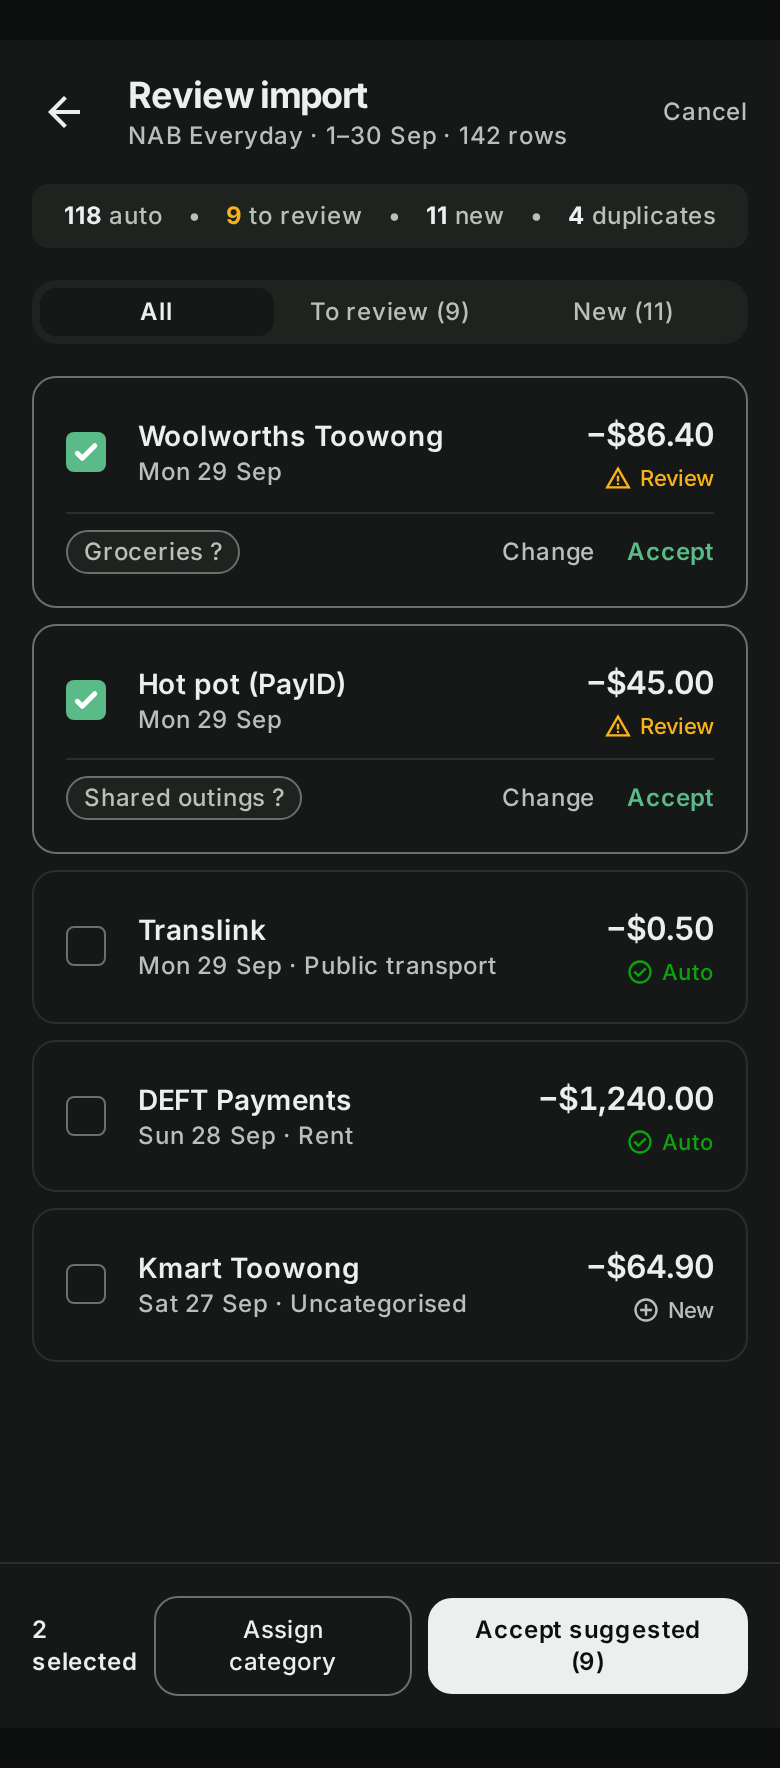
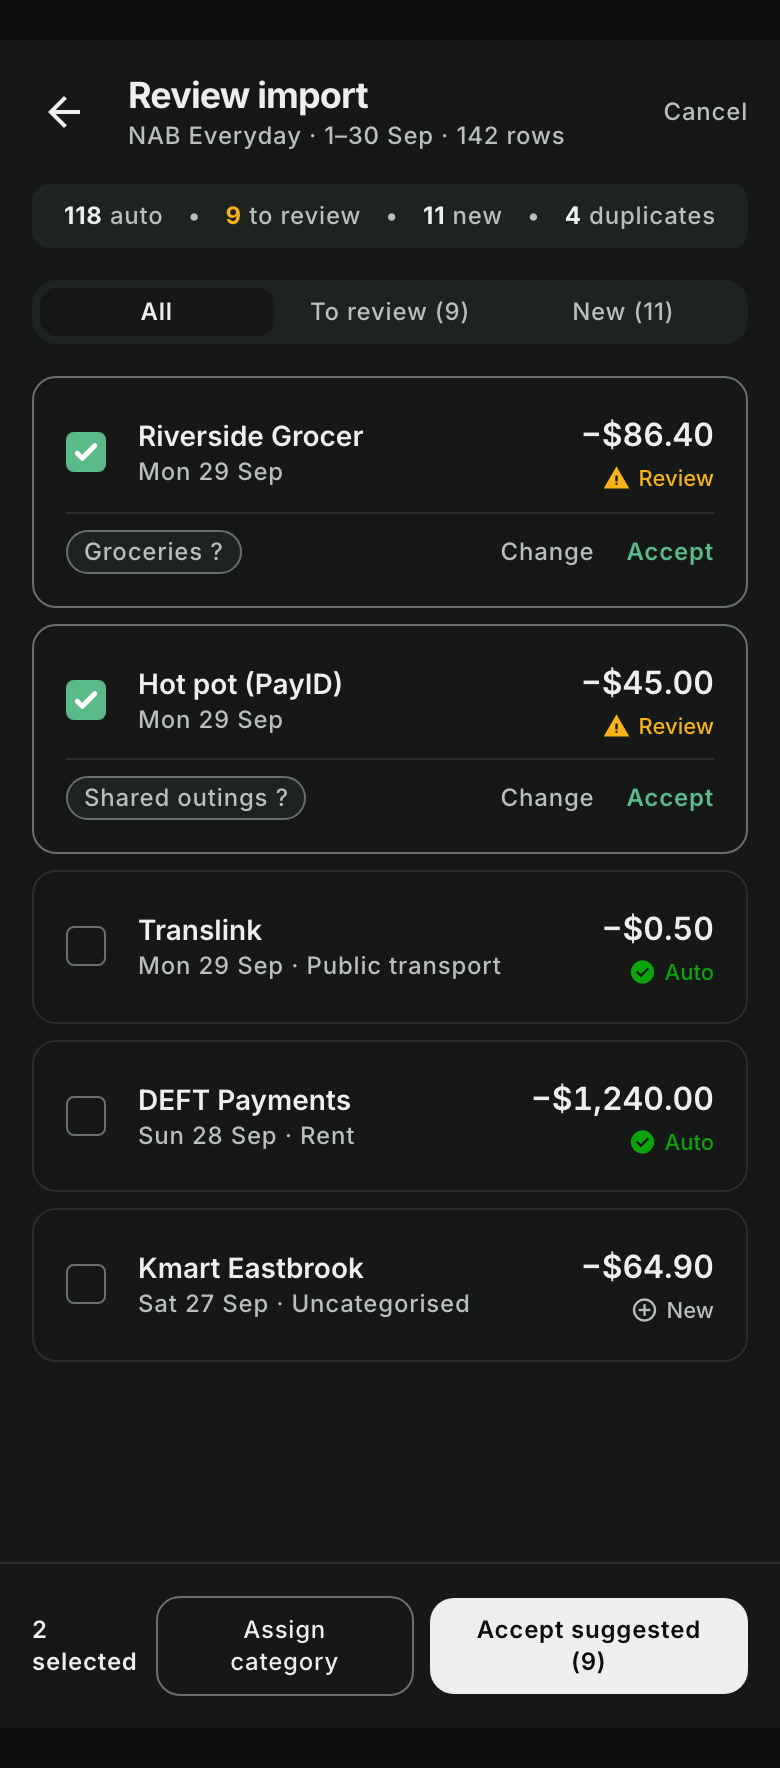
docs(design): use fictional merchants in demo data and refresh screenshots
The ui-kit demo data, three web specs, the Stitch mocks, the Claude
Design sources and the stitch prompts named a real suburb and real local
providers. They now use fictional ones (Riverside Grocer, Hillcrest
Market, Corner Fuel, Kmart Eastbrook, Mobile Co, City Water, Power Co).

Screenshots that showed the old names are regenerated at 390 px, light
and dark: the kit and charts galleries (Playwright against /__kit and
/__kit/charts), the import review QA shots (a local stack with a
synthetic CSV) and the month, transactions and import-review mocks
(re-rendered from their HTML). The bank-side NAB system rules are product
code and stay as they are.

Claude-Session: https://claude.ai/code/session_01RnizF3m5GoPiC5RqA4km1g

diff --git a/docs/design/claude-design/system/project/components/ReviewRow/preview.html b/docs/design/claude-design/system/project/components/ReviewRow/preview.html
@@ -14,7 +14,7 @@
 </head>
 <body>
 <div class="mm pv">
-<div style="margin:0 -16px;display:flex;flex-direction:column;gap:4px;padding:0 8px"><div class="mm-review"><span class="mm-checkwrap"><span class="mm-check mm-check--on"><svg class="ic ic-16" viewBox="0 0 24 24" aria-hidden="true"><path d="M20 6 9 17l-5-5"/></svg></span></span><div class="mm-review__body"><div class="mm-review__top"><span class="body">Woolworths Riverside</span><span class="mm-amt">−$142.65</span></div><div class="mm-review__line"><span class="mm-state"><svg class="ic ic-16 st-good" viewBox="0 0 24 24" aria-hidden="true"><circle cx="12" cy="12" r="10"/><path d="m9 12 2 2 4-4"/></svg>Auto</span><span class="caption ink-3">Súper · 12 oct</span></div></div></div><div class="mm-review mm-review--doubtful"><span class="mm-checkwrap"><span class="mm-check"></span></span><div class="mm-review__body"><div class="mm-review__top"><span class="body">SQ *BRISBANE MARKETS</span><span class="mm-amt">−$38.00</span></div><div class="mm-review__line"><span class="mm-state"><svg class="ic ic-16 st-warning" viewBox="0 0 24 24" aria-hidden="true"><path d="m21.73 18-8-14a2 2 0 0 0-3.48 0l-8 14A2 2 0 0 0 4 21h16a2 2 0 0 0 1.73-3"/><path d="M12 9v4"/><path d="M12 17h.01"/></svg>Revisar</span><button class="mm-chip" type="button" style="height:32px">Súper ?</button><button class="mm-btn mm-btn--link" type="button" style="height:32px;padding:0 8px">Aceptar</button><button class="mm-btn mm-btn--ghost" type="button" style="height:32px;padding:0 8px">Cambiar</button></div></div></div><div class="mm-review"><span class="mm-checkwrap"><span class="mm-check"></span></span><div class="mm-review__body"><div class="mm-review__top"><span class="body">ONLINE PAYMENT 4417</span><span class="mm-amt">−$60.00</span></div><div class="mm-review__line"><span class="mm-state"><svg class="ic ic-16 ink-2" viewBox="0 0 24 24" aria-hidden="true"><circle cx="12" cy="12" r="10"/><path d="M8 12h8"/><path d="M12 8v8"/></svg>Nueva</span><button class="mm-chip" type="button" style="height:32px">Sin categoría</button></div></div></div></div>
+<div style="margin:0 -16px;display:flex;flex-direction:column;gap:4px;padding:0 8px"><div class="mm-review"><span class="mm-checkwrap"><span class="mm-check mm-check--on"><svg class="ic ic-16" viewBox="0 0 24 24" aria-hidden="true"><path d="M20 6 9 17l-5-5"/></svg></span></span><div class="mm-review__body"><div class="mm-review__top"><span class="body">Riverside Grocer</span><span class="mm-amt">−$142.65</span></div><div class="mm-review__line"><span class="mm-state"><svg class="ic ic-16 st-good" viewBox="0 0 24 24" aria-hidden="true"><circle cx="12" cy="12" r="10"/><path d="m9 12 2 2 4-4"/></svg>Auto</span><span class="caption ink-3">Súper · 12 oct</span></div></div></div><div class="mm-review mm-review--doubtful"><span class="mm-checkwrap"><span class="mm-check"></span></span><div class="mm-review__body"><div class="mm-review__top"><span class="body">SQ *BRISBANE MARKETS</span><span class="mm-amt">−$38.00</span></div><div class="mm-review__line"><span class="mm-state"><svg class="ic ic-16 st-warning" viewBox="0 0 24 24" aria-hidden="true"><path d="m21.73 18-8-14a2 2 0 0 0-3.48 0l-8 14A2 2 0 0 0 4 21h16a2 2 0 0 0 1.73-3"/><path d="M12 9v4"/><path d="M12 17h.01"/></svg>Revisar</span><button class="mm-chip" type="button" style="height:32px">Súper ?</button><button class="mm-btn mm-btn--link" type="button" style="height:32px;padding:0 8px">Aceptar</button><button class="mm-btn mm-btn--ghost" type="button" style="height:32px;padding:0 8px">Cambiar</button></div></div></div><div class="mm-review"><span class="mm-checkwrap"><span class="mm-check"></span></span><div class="mm-review__body"><div class="mm-review__top"><span class="body">ONLINE PAYMENT 4417</span><span class="mm-amt">−$60.00</span></div><div class="mm-review__line"><span class="mm-state"><svg class="ic ic-16 ink-2" viewBox="0 0 24 24" aria-hidden="true"><circle cx="12" cy="12" r="10"/><path d="M8 12h8"/><path d="M12 8v8"/></svg>Nueva</span><button class="mm-chip" type="button" style="height:32px">Sin categoría</button></div></div></div></div>
 </div>
 </body>
 </html>

diff --git a/docs/design/claude-design/month/project/Main.dc.html b/docs/design/claude-design/month/project/Main.dc.html
@@ -97,7 +97,7 @@ a{color:var(--accent)}a:hover{color:var(--ink-1)}
 <ul class="mm-list" style="margin: 0 -16px">
 <li class="mm-row"><span class="mm-row__icon"><svg class="ic" viewBox="0 0 24 24" aria-hidden="true"><path d="M15 21v-8a1 1 0 0 0-1-1h-4a1 1 0 0 0-1 1v8"/><path d="M3 10a2 2 0 0 1 .709-1.528l7-5.999a2 2 0 0 1 2.582 0l7 5.999A2 2 0 0 1 21 10v9a2 2 0 0 1-2 2H5a2 2 0 0 1-2-2z"/></svg></span><span class="mm-row__main"><span class="mm-row__title">DEFT Payments</span><span class="mm-row__meta"><span class="mm-dot mm-dot--a"></span>Renta · lun 13 oct</span></span><span class="mm-amt">−$480.00</span></li>
 <li class="mm-row"><span class="mm-row__icon"><svg class="ic" viewBox="0 0 24 24" aria-hidden="true"><path d="M15 21v-8a1 1 0 0 0-1-1h-4a1 1 0 0 0-1 1v8"/><path d="M3 10a2 2 0 0 1 .709-1.528l7-5.999a2 2 0 0 1 2.582 0l7 5.999A2 2 0 0 1 21 10v9a2 2 0 0 1-2 2H5a2 2 0 0 1-2-2z"/></svg></span><span class="mm-row__main"><span class="mm-row__title">DEFT Payments</span><span class="mm-row__meta"><span class="mm-dot mm-dot--b"></span>Renta · lun 6 oct</span></span><span class="mm-amt">−$480.00</span></li>
-<li class="mm-row"><span class="mm-row__icon"><svg class="ic" viewBox="0 0 24 24" aria-hidden="true"><circle cx="8" cy="21" r="1"/><circle cx="19" cy="21" r="1"/><path d="M2.05 2.05h2l2.66 12.42a2 2 0 0 0 2 1.58h9.78a2 2 0 0 0 1.95-1.57l1.65-7.43H5.12"/></svg></span><span class="mm-row__main"><span class="mm-row__title">Woolworths Riverside</span><span class="mm-row__meta"><span class="mm-dot mm-dot--b"></span>Súper · dom 12 oct</span></span><span class="mm-amt">−$142.65</span></li>
+<li class="mm-row"><span class="mm-row__icon"><svg class="ic" viewBox="0 0 24 24" aria-hidden="true"><circle cx="8" cy="21" r="1"/><circle cx="19" cy="21" r="1"/><path d="M2.05 2.05h2l2.66 12.42a2 2 0 0 0 2 1.58h9.78a2 2 0 0 0 1.95-1.57l1.65-7.43H5.12"/></svg></span><span class="mm-row__main"><span class="mm-row__title">Riverside Grocer</span><span class="mm-row__meta"><span class="mm-dot mm-dot--b"></span>Súper · dom 12 oct</span></span><span class="mm-amt">−$142.65</span></li>
 <li class="mm-row"><span class="mm-row__icon"><svg class="ic" viewBox="0 0 24 24" aria-hidden="true"><path d="M4 14a1 1 0 0 1-.78-1.63l9.9-10.2a.5.5 0 0 1 .86.46l-1.92 6.02A1 1 0 0 0 13 10h7a1 1 0 0 1 .78 1.63l-9.9 10.2a.5.5 0 0 1-.86-.46l1.92-6.02A1 1 0 0 0 11 14z"/></svg></span><span class="mm-row__main"><span class="mm-row__title">Power Co</span><span class="mm-row__meta"><span class="mm-dot mm-dot--a"></span>Servicios · mié 8 oct</span></span><span class="mm-amt">−$118.40</span></li>
 <li class="mm-row"><span class="mm-row__icon"><svg class="ic" viewBox="0 0 24 24" aria-hidden="true"><path d="M4 14a1 1 0 0 1-.78-1.63l9.9-10.2a.5.5 0 0 1 .86.46l-1.92 6.02A1 1 0 0 0 13 10h7a1 1 0 0 1 .78 1.63l-9.9 10.2a.5.5 0 0 1-.86-.46l1.92-6.02A1 1 0 0 0 11 14z"/></svg></span><span class="mm-row__main"><span class="mm-row__title">City Water</span><span class="mm-row__meta"><span class="mm-dot mm-dot--joint"></span>Servicios · jue 2 oct</span></span><span class="mm-amt">−$79.00</span></li>
 </ul>

diff --git a/docs/design/claude-design/month/project/Month-dark.dc.html b/docs/design/claude-design/month/project/Month-dark.dc.html
@@ -97,7 +97,7 @@ a{color:var(--accent)}a:hover{color:var(--ink-1)}
 <ul class="mm-list" style="margin: 0 -16px">
 <li class="mm-row"><span class="mm-row__icon"><svg class="ic" viewBox="0 0 24 24" aria-hidden="true"><path d="M15 21v-8a1 1 0 0 0-1-1h-4a1 1 0 0 0-1 1v8"/><path d="M3 10a2 2 0 0 1 .709-1.528l7-5.999a2 2 0 0 1 2.582 0l7 5.999A2 2 0 0 1 21 10v9a2 2 0 0 1-2 2H5a2 2 0 0 1-2-2z"/></svg></span><span class="mm-row__main"><span class="mm-row__title">DEFT Payments</span><span class="mm-row__meta"><span class="mm-dot mm-dot--a"></span>Renta · lun 13 oct</span></span><span class="mm-amt">−$480.00</span></li>
 <li class="mm-row"><span class="mm-row__icon"><svg class="ic" viewBox="0 0 24 24" aria-hidden="true"><path d="M15 21v-8a1 1 0 0 0-1-1h-4a1 1 0 0 0-1 1v8"/><path d="M3 10a2 2 0 0 1 .709-1.528l7-5.999a2 2 0 0 1 2.582 0l7 5.999A2 2 0 0 1 21 10v9a2 2 0 0 1-2 2H5a2 2 0 0 1-2-2z"/></svg></span><span class="mm-row__main"><span class="mm-row__title">DEFT Payments</span><span class="mm-row__meta"><span class="mm-dot mm-dot--b"></span>Renta · lun 6 oct</span></span><span class="mm-amt">−$480.00</span></li>
-<li class="mm-row"><span class="mm-row__icon"><svg class="ic" viewBox="0 0 24 24" aria-hidden="true"><circle cx="8" cy="21" r="1"/><circle cx="19" cy="21" r="1"/><path d="M2.05 2.05h2l2.66 12.42a2 2 0 0 0 2 1.58h9.78a2 2 0 0 0 1.95-1.57l1.65-7.43H5.12"/></svg></span><span class="mm-row__main"><span class="mm-row__title">Woolworths Riverside</span><span class="mm-row__meta"><span class="mm-dot mm-dot--b"></span>Súper · dom 12 oct</span></span><span class="mm-amt">−$142.65</span></li>
+<li class="mm-row"><span class="mm-row__icon"><svg class="ic" viewBox="0 0 24 24" aria-hidden="true"><circle cx="8" cy="21" r="1"/><circle cx="19" cy="21" r="1"/><path d="M2.05 2.05h2l2.66 12.42a2 2 0 0 0 2 1.58h9.78a2 2 0 0 0 1.95-1.57l1.65-7.43H5.12"/></svg></span><span class="mm-row__main"><span class="mm-row__title">Riverside Grocer</span><span class="mm-row__meta"><span class="mm-dot mm-dot--b"></span>Súper · dom 12 oct</span></span><span class="mm-amt">−$142.65</span></li>
 <li class="mm-row"><span class="mm-row__icon"><svg class="ic" viewBox="0 0 24 24" aria-hidden="true"><path d="M4 14a1 1 0 0 1-.78-1.63l9.9-10.2a.5.5 0 0 1 .86.46l-1.92 6.02A1 1 0 0 0 13 10h7a1 1 0 0 1 .78 1.63l-9.9 10.2a.5.5 0 0 1-.86-.46l1.92-6.02A1 1 0 0 0 11 14z"/></svg></span><span class="mm-row__main"><span class="mm-row__title">Power Co</span><span class="mm-row__meta"><span class="mm-dot mm-dot--a"></span>Servicios · mié 8 oct</span></span><span class="mm-amt">−$118.40</span></li>
 <li class="mm-row"><span class="mm-row__icon"><svg class="ic" viewBox="0 0 24 24" aria-hidden="true"><path d="M4 14a1 1 0 0 1-.78-1.63l9.9-10.2a.5.5 0 0 1 .86.46l-1.92 6.02A1 1 0 0 0 13 10h7a1 1 0 0 1 .78 1.63l-9.9 10.2a.5.5 0 0 1-.86-.46l1.92-6.02A1 1 0 0 0 11 14z"/></svg></span><span class="mm-row__main"><span class="mm-row__title">City Water</span><span class="mm-row__meta"><span class="mm-dot mm-dot--joint"></span>Servicios · jue 2 oct</span></span><span class="mm-amt">−$79.00</span></li>
 </ul>

diff --git a/docs/design/claude-design/system/project/components/AmountDisplay/preview.html b/docs/design/claude-design/system/project/components/AmountDisplay/preview.html
@@ -15,7 +15,7 @@
 <body>
 <div class="mm pv">
 <div><p class="eyebrow" style="margin:0 0 4px">Gastado en octubre</p><p class="mm-hero">$2,263<span class="mm-hero__soft">.40</span></p></div>
-<div style="display:grid;grid-template-columns:1fr auto;row-gap:8px;max-width:320px"><span class="body ink-2">Woolworths Riverside</span><span class="mm-amt">−$142.65</span><span class="body ink-2">Pago de Hnry</span><span class="mm-amt mm-amt--income">+$3,200.00</span><span class="body ink-2">A Ahorro NAB</span><span class="mm-amt mm-amt--transfer"><svg class="ic ic-16" viewBox="0 0 24 24" aria-hidden="true"><path d="M8 3 4 7l4 4"/><path d="M4 7h16"/><path d="m16 21 4-4-4-4"/><path d="M20 17H4"/></svg>$500.00</span></div>
+<div style="display:grid;grid-template-columns:1fr auto;row-gap:8px;max-width:320px"><span class="body ink-2">Riverside Grocer</span><span class="mm-amt">−$142.65</span><span class="body ink-2">Pago de Hnry</span><span class="mm-amt mm-amt--income">+$3,200.00</span><span class="body ink-2">A Ahorro NAB</span><span class="mm-amt mm-amt--transfer"><svg class="ic ic-16" viewBox="0 0 24 24" aria-hidden="true"><path d="M8 3 4 7l4 4"/><path d="M4 7h16"/><path d="m16 21 4-4-4-4"/><path d="M20 17H4"/></svg>$500.00</span></div>
 </div>
 </body>
 </html>

diff --git a/docs/design/mocks/import-review-dark.html b/docs/design/mocks/import-review-dark.html
@@ -128,7 +128,7 @@
 <div class="flex items-center gap-space-md">
 <input checked="" class="w-5 h-5 rounded border-outline bg-transparent text-accent focus:ring-0 cursor-pointer accent-[#5abb88]" type="checkbox"/>
 <div>
-<h3 class="font-heading text-body-sm font-semibold text-on-surface">Woolworths Riverside</h3>
+<h3 class="font-heading text-body-sm font-semibold text-on-surface">Riverside Grocer</h3>
 <p class="font-label text-label text-on-surface-variant">Mon 29 Sep</p>
 </div>
 </div>
@@ -212,12 +212,12 @@
 </div>
 </div>
 </div>
-<!-- Row 5: New State (Kmart Riverside) -->
+<!-- Row 5: New State (Kmart Eastbrook) -->
 <div class="bg-surface border border-line rounded-xl p-space-md flex items-center justify-between">
 <div class="flex items-center gap-space-md">
 <input class="w-5 h-5 rounded border-outline bg-transparent text-accent focus:ring-0 cursor-pointer accent-[#5abb88]" type="checkbox"/>
 <div>
-<h3 class="font-heading text-body-sm font-semibold text-on-surface">Kmart Riverside</h3>
+<h3 class="font-heading text-body-sm font-semibold text-on-surface">Kmart Eastbrook</h3>
 <p class="font-label text-label text-on-surface-variant">Sat 27 Sep · Uncategorised</p>
 </div>
 </div>

diff --git a/apps/web/src/app/shared/ui/list-row/list-row.component.spec.ts b/apps/web/src/app/shared/ui/list-row/list-row.component.spec.ts
@@ -11,7 +11,7 @@ import { ListRowHarness } from './list-row.harness'
     <div role="list">
       <app-list-row
         icon="shopping-cart"
-        title="Woolworths Riverside"
+        title="Riverside Grocer"
         [meta]="['Groceries', 'NAB Everyday']"
         person="b"
         [amountCents]="14265"
@@ -45,7 +45,7 @@ describe('ListRowComponent', () => {
 
   it('test_shows_merchant_meta_person_and_signed_amount', async () => {
     const { loader, fixture } = await setup()
-    const row = await loader.getHarness(ListRowHarness.with({ title: 'Woolworths Riverside' }))
+    const row = await loader.getHarness(ListRowHarness.with({ title: 'Riverside Grocer' }))
 
     expect(await row.getMeta()).toBe('Groceries · NAB Everyday')
     expect(await row.getAmount()).toBe('−$142.65')
@@ -54,7 +54,7 @@ describe('ListRowComponent', () => {
 
   it('test_interactive_row_is_a_button_that_emits_pressed', async () => {
     const { loader, host } = await setup()
-    const row = await loader.getHarness(ListRowHarness.with({ title: 'Woolworths Riverside' }))
+    const row = await loader.getHarness(ListRowHarness.with({ title: 'Riverside Grocer' }))
 
     await row.click()
 

diff --git a/docs/design/mocks/import-review-light.html b/docs/design/mocks/import-review-light.html
@@ -159,7 +159,7 @@
 <div class="flex items-center gap-space-md">
 <input checked="" class="w-5 h-5 rounded border-outline text-primary focus:ring-0 cursor-pointer" type="checkbox"/>
 <div>
-<h3 class="font-heading text-body-sm font-semibold text-on-surface">Woolworths Riverside</h3>
+<h3 class="font-heading text-body-sm font-semibold text-on-surface">Riverside Grocer</h3>
 <p class="font-label text-label text-on-surface-variant">Mon 29 Sep</p>
 </div>
 </div>
@@ -243,12 +243,12 @@
 </div>
 </div>
 </div>
-<!-- Row 5: New State (Kmart Riverside) -->
+<!-- Row 5: New State (Kmart Eastbrook) -->
 <div class="bg-surface-container-lowest border border-line rounded-xl p-space-md flex items-center justify-between shadow-sm">
 <div class="flex items-center gap-space-md">
 <input class="w-5 h-5 rounded border-outline text-primary focus:ring-0 cursor-pointer" type="checkbox"/>
 <div>
-<h3 class="font-heading text-body-sm font-semibold text-on-surface">Kmart Riverside</h3>
+<h3 class="font-heading text-body-sm font-semibold text-on-surface">Kmart Eastbrook</h3>
 <p class="font-label text-label text-on-surface-variant">Sat 27 Sep · Uncategorised</p>
 </div>
 </div>

diff --git a/docs/design/mocks/transactions-light.html b/docs/design/mocks/transactions-light.html
@@ -167,14 +167,14 @@
 <span class="font-label text-label text-on-surface-variant uppercase tracking-wider">Today · Wed 15 Oct</span>
 <span class="font-body-sm text-on-surface-variant tabular-nums">−$48.70</span>
 </div>
-<!-- Row 1: Woolworths Riverside -->
+<!-- Row 1: Riverside Grocer -->
 <div class="h-[56px] flex items-center justify-between border-b border-line hover:bg-surface-container-low transition-colors px-space-xs">
 <div class="flex items-center gap-space-md">
 <div class="w-[36px] h-[36px] rounded-lg bg-surface-container flex items-center justify-center shrink-0">
 <span class="material-symbols-outlined text-on-surface-variant text-xl">shopping_bag</span>
 </div>
 <div>
-<div class="font-body text-on-surface font-medium leading-tight">Woolworths Riverside</div>
+<div class="font-body text-on-surface font-medium leading-tight">Riverside Grocer</div>
 <div class="flex items-center gap-space-xs mt-0.5">
 <span class="font-body-sm text-on-surface-variant">Groceries · NAB Everyday</span>
 <span class="inline-block w-2 h-2 rounded-full bg-person-a ml-1" title="You"></span>

diff --git a/docs/design/mocks/transactions-dark.html b/docs/design/mocks/transactions-dark.html
@@ -96,14 +96,14 @@
 <span class="text-xs font-medium text-text-dim uppercase tracking-wider">Today · Wed 15 Oct</span>
 <span class="text-sm text-text-dim tabular-nums">−$48.70</span>
 </div>
-<!-- Row 1: Woolworths Riverside -->
+<!-- Row 1: Riverside Grocer -->
 <div class="h-14 flex items-center justify-between border-b border-hairline hover:bg-raised transition-colors px-1">
 <div class="flex items-center gap-3">
 <div class="w-9 h-9 rounded-lg bg-sunken flex items-center justify-center shrink-0">
 <span class="material-symbols-outlined text-text-muted text-xl">shopping_bag</span>
 </div>
 <div>
-<div class="text-base text-text-main font-medium leading-tight">Woolworths Riverside</div>
+<div class="text-base text-text-main font-medium leading-tight">Riverside Grocer</div>
 <div class="flex items-center gap-1 mt-0.5">
 <span class="text-sm text-text-dim">Groceries · NAB Everyday</span>
 <span class="inline-block w-2 h-2 rounded-full bg-person-a ml-1" title="You"></span>

diff --git a/apps/web/src/app/domain/transaction-list.spec.ts b/apps/web/src/app/domain/transaction-list.spec.ts
@@ -92,11 +92,11 @@ describe('relativeDay', () => {
 
 describe('recentPayees', () => {
   it('test_distinct_payees_most_recent_first_matching_the_typed_prefix', () => {
-    const payees = ['Woolworths Riverside', 'Translink', 'woolworths riverside', null, 'Coles']
+    const payees = ['Riverside Grocer', 'Translink', 'riverside grocer', null, 'Coles']
 
-    expect(recentPayees(payees, '')).toEqual(['Woolworths Riverside', 'Translink', 'Coles'])
-    expect(recentPayees(payees, 'wool')).toEqual(['Woolworths Riverside'])
+    expect(recentPayees(payees, '')).toEqual(['Riverside Grocer', 'Translink', 'Coles'])
+    expect(recentPayees(payees, 'river')).toEqual(['Riverside Grocer'])
     expect(recentPayees(payees, 'Translink')).toEqual([])
-    expect(recentPayees(payees, '', 2)).toEqual(['Woolworths Riverside', 'Translink'])
+    expect(recentPayees(payees, '', 2)).toEqual(['Riverside Grocer', 'Translink'])
   })
 })

diff --git a/apps/web/src/app/kit/charts/kit-charts.data.ts b/apps/web/src/app/kit/charts/kit-charts.data.ts
@@ -42,11 +42,11 @@ export const SPENDING_BY_CATEGORY: readonly SampleCategory[] = [
 
 /** Merchants are proper names, so they are data rather than catalogue copy. */
 export const TOP_MERCHANTS: readonly { label: string; valueCents: number }[] = [
-  { label: 'Woolworths Riverside', valueCents: 41_230 },
-  { label: 'Coles Hillcrest', valueCents: 20_010 },
+  { label: 'Riverside Grocer', valueCents: 41_230 },
+  { label: 'Hillcrest Market', valueCents: 20_010 },
   { label: 'Translink', valueCents: 14_820 },
   { label: 'Corner Fuel', valueCents: 6_640 },
-  { label: 'Kmart Riverside', valueCents: 6_490 },
+  { label: 'Kmart Eastbrook', valueCents: 6_490 },
   { label: 'Mobile Co', valueCents: 3_500 },
 ]
 

diff --git a/apps/web/src/app/domain/quick-add-defaults.spec.ts b/apps/web/src/app/domain/quick-add-defaults.spec.ts
@@ -222,14 +222,14 @@ describe('defaultTransferPair', () => {
 describe('payeeSuggestions', () => {
   it('test_frequent_recent_payees_come_first_without_duplicates', () => {
     const recent = [
-      entry({ payee: 'Woolworths Riverside' }),
-      entry({ payee: 'woolworths riverside ' }),
+      entry({ payee: 'Riverside Grocer' }),
+      entry({ payee: 'riverside grocer ' }),
       entry({ payee: 'Kmart' }),
       entry({ payee: 'Translink', date: '2026-05-01' }),
     ]
 
     expect(payeeSuggestions(recent, 'expense', '', TODAY)).toEqual([
-      'Woolworths Riverside',
+      'Riverside Grocer',
       'Kmart',
       'Translink',
     ])
